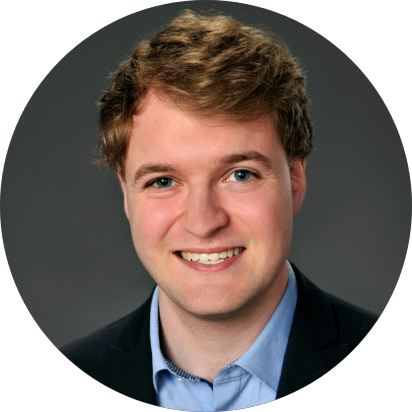
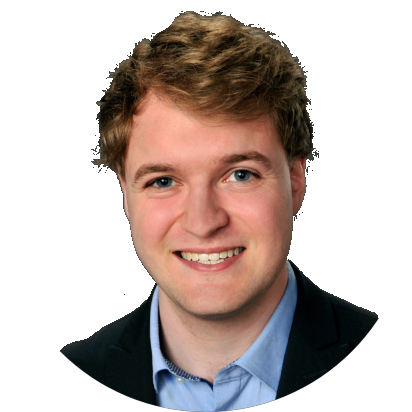
Improve layout

diff --git a/styles/main.css b/styles/main.css
@@ -1,1 +1,1 @@
-html,body{margin:0;padding:0}html{overflow-y:scroll}body{background:#FFFFFF;font-family:'Lato','Xiaolai SC',sans-serif;color:#2E2C24;font-size:13.2pt;padding:0 32px 0 32px;display:flex;justify-content:center}@media (max-width:960px){body{padding:0}}#wrapper{display:grid;grid-template-columns:max-content auto;grid-column-gap:80px}@media (max-width:960px){#wrapper{width:100%;grid-template-columns:auto 1fr;grid-column-gap:0}}#logo{display:flex;justify-content:center;padding-top:32px}@media (max-width:960px){#logo{background:#2E2C24;padding:16px}}#caption{background:#FFFFFF;padding:32px 0 0 32px;display:flex;align-items:center}#caption a{color:#2E2C24;text-decoration:none}#caption img{width:15%;margin-left:auto}@media (max-width:960px){#caption{background:#2E2C24;padding:16px}#caption a{color:#FFFFFF}#caption img{display:none}}#blackness{background:#2E2C24;height:100vh;width:50vw;position:fixed;left:0;top:0;z-index:-1}@media (max-width:960px){#blackness{display:none}}nav{background:#2E2C24;display:flex;flex-direction:column;padding-top:32px}nav a{margin-bottom:8px;color:#FFFFFF;text-decoration:none;font-size:1.5em}nav a.selected{background:#5E6897}nav a:hover{background:#80232E}@media (max-width:960px){nav{grid-column:1 / span 2;padding:16px}}main{width:700px;background:#FFFFFF;min-height:100vh;padding:32px 0 0 32px}main.chinese{font-size:26pt}main p:first-child,main h2:first-child{margin-block-start:0;font-weight:900}main .highlight{color:#80232E;font-weight:bold}main a{color:#5E6897}main a:hover{color:#80232E}main code{font-family:"DejaVu Sans Mono",monospace;font-size:12pt}@media (max-width:960px){main{padding:32px 32px 32px 16px;grid-column:1 / span 2;width:unset}}.work-item{border-top:solid 2px #80232E;background:#EEEEEE;padding:16px;margin-block-start:1em;margin-block-end:1em}.work-item h3{margin-block-start:0;margin-block-end:.75em}.work-item h4{margin-block-start:.75em;margin-block-end:0}.work-item-divider{display:flex;justify-content:center;color:#2E2C24;letter-spacing:.25rem;font-size:25px}h1,h2,h3,p{display:block;margin-inline-start:0;margin-inline-end:0}h1{font-size:2em;margin-block-start:.67em;margin-block-end:.67em;font-weight:900}h2{font-size:1.5em;margin-block-start:.83em;margin-block-end:.83em;font-weight:900}h3{font-size:1.17em;margin-block-start:1em;margin-block-end:1em;font-weight:900}h4{font-size:inherit;margin-block-start:1.33em;margin-block-end:1.33em;font-weight:900}p{display:block;margin-block-start:1em;margin-block-end:1em}abbr{text-decoration:none;border-bottom:solid 1px #80232E}abbr:hover{background:#80232E;color:#FFFFFF}/*# sourceMappingURL=main.css.map */
+html,body{margin:0;padding:0}html{overflow-y:scroll}body{background:#FFFFFF;font-family:'Lato',sans-serif;color:#2E2C24;font-size:13.2pt;padding:0 32px 0 32px;display:flex;justify-content:center}@media (max-width:960px){body{padding:0}}#wrapper{display:grid;grid-template-columns:max-content auto;grid-column-gap:80px}@media (max-width:960px){#wrapper{width:100%;grid-template-columns:auto 1fr;grid-column-gap:0}}#logo{display:flex;justify-content:center;align-items:center;padding-top:32px}@media (max-width:960px){#logo{background:#373D58;padding:16px}}#caption{background:#FFFFFF;padding:32px 0 0 32px;display:flex;flex-direction:column;justify-content:flex-end;align-items:flex-end}#caption hr{height:1px;border:0;border-top:solid 2px #2E2C24;width:100%;margin:0;padding:0}#caption a{color:#2E2C24;text-decoration:none}@media (max-width:960px){#caption{background:#373D58;padding:16px;flex-direction:row;justify-content:flex-start;align-items:center}#caption a{color:#FFFFFF}#caption hr{display:none}}#blackness{background:#373D58;height:100vh;width:50vw;position:fixed;left:0;top:0;z-index:-1}@media (max-width:960px){#blackness{display:none}}nav{background:#373D58;display:flex;flex-direction:column;padding-top:32px}nav a{margin-bottom:8px;color:#FFFFFF;text-decoration:none;font-size:1.5em}nav a.selected{background:#5E6897}nav a:hover{background:#80232E}@media (max-width:960px){nav{grid-column:1 / span 2;padding:16px}}main{width:700px;background:#FFFFFF;min-height:100vh;padding:32px 0 0 32px}main.chinese{font-family:'Lato','Xiaolai SC',sans-serif;font-size:1.2em}main p:first-child,main h2:first-child{margin-block-start:0;font-weight:900}main .highlight{color:#80232E;font-weight:bold}main a{color:#5E6897}main a:hover{color:#80232E}main code{font-family:"DejaVu Sans Mono",monospace;font-size:12pt}@media (max-width:960px){main{padding:32px 32px 32px 16px;grid-column:1 / span 2;width:unset}}.work-item{border-top:solid 2px #80232E;background:#EEEEEE;padding:16px;margin-block-start:1em;margin-block-end:1em}.work-item h3{margin-block-start:0;margin-block-end:.75em}.work-item h4{margin-block-start:.75em;margin-block-end:0}.work-item-divider{display:flex;justify-content:center;color:#2E2C24;letter-spacing:.25rem;font-size:25px}h1,h2,h3,p{display:block;margin-inline-start:0;margin-inline-end:0}h1{font-size:2em;margin-block-start:.67em;margin-block-end:.67em;font-weight:900}h2{font-size:1.5em;margin-block-start:.83em;margin-block-end:.83em;font-weight:900}h3{font-size:1.17em;margin-block-start:1em;margin-block-end:1em;font-weight:900}h4{font-size:inherit;margin-block-start:1.33em;margin-block-end:1.33em;font-weight:900}p{display:block;margin-block-start:1em;margin-block-end:1em}abbr{text-decoration:none;border-bottom:solid 1px #80232E}abbr:hover{background:#80232E;color:#FFFFFF}/*# sourceMappingURL=main.css.map */

diff --git a/styles/main.less b/styles/main.less
@@ -2,9 +2,10 @@
 @black: #2E2C24;
 @red: #80232E;
 @blue: #5E6897;
+@darkblue: #373D58; // Darkened version of #5E6897
 @grey: #EEEEEE;
 
-@nav-bg: @black;
+@nav-bg: @darkblue;
 @link: @blue;
 @link-hover: @red;
 
@@ -12,6 +13,9 @@
 @main-max-width: 700px;
 
 @bold-weight: 900;
+
+@main-font: 'Lato';
+@chinese-font: 'Xiaolai SC';
 
 // unused
 // @dark-grey: #888888;
@@ -36,7 +40,7 @@ html {
 
 body {
     background: @white;
-    font-family: 'Lato', 'Xiaolai SC', sans-serif;
+    font-family: @main-font, sans-serif;
     color: @black;
     font-size: 13.2pt;
 
@@ -65,6 +69,7 @@ body {
 #logo {
     display: flex;
     justify-content: center;
+    align-items: center;
     padding-top: 32px;
 
     @media (max-width: @mobile-width)  {
@@ -77,27 +82,36 @@ body {
     background: @white;
     padding: 32px 0 0 32px;
     display: flex;
-    align-items: center;
+    flex-direction: column;
+    justify-content: flex-end;
+    align-items: flex-end;
+
+    hr {
+        height: 1px;
+        border: 0;
+        border-top: solid 2px @black;
+        width: 100%;
+        margin: 0;
+        padding: 0;
+    }
 
     a {
         color: @black;
         text-decoration: none;
     }
 
-    img {
-        width: 15%;
-        margin-left: auto;
-    }
-
     @media (max-width: @mobile-width)  {
         background: @nav-bg;
         padding: 16px;
+        flex-direction: row;
+        justify-content: flex-start;
+        align-items: center;
 
         a {
             color: @white;
         }
 
-        img {
+        hr {
             display: none;
         }
     }
@@ -152,7 +166,8 @@ main {
     padding: 32px 0 0 32px;
 
     &.chinese {
-        font-size: 26pt;
+        font-family: @main-font, @chinese-font, sans-serif;
+        font-size: 1.2em;
     }
 
     p:first-child, h2:first-child {

diff --git a/phantom/templates/nav.html b/phantom/templates/nav.html
@@ -1,5 +1,7 @@
 <div id="logo">
-    <a href="/"><img src="img/logo-white.svg" alt="Logo" width="100"/></a>
+    <a href="/">
+        <img src="img/vincent-circle.png" alt="A picture of Vincent Rolfs" width="100"/>
+    </a>
 </div>
 
 <div id="caption">
@@ -8,7 +10,8 @@
             Vincent Rolfs
         </h1>
     </a>
-    <img src="img/vincent-circle.png" alt="A picture of Vincent Rolfs"/>
+
+    <hr/>
 </div>
 
 <div id="blackness"></div>
@@ -16,5 +19,6 @@
 <nav>
     <a class="<script data-phantom>phantom.args.selection === 'index' ? 'selected' : ''</script>" href="/">About me</a>
     <a class="<script data-phantom>phantom.args.selection === 'portfolio' ? 'selected' : ''</script>" href="/my-work">My work</a>
+    <a class="<script data-phantom>phantom.args.selection === 'chinese' ? 'selected' : ''</script>" href="/chinese">中文</a>
     <a class="<script data-phantom>phantom.args.selection === 'contact' ? 'selected' : ''</script>" href="/contact">Contact</a>
 </nav>

diff --git a/chinese.html b/chinese.html
@@ -29,9 +29,35 @@
   <script data-goatcounter="https://vincentrolfs.goatcounter.com/count" async src="//gc.zgo.at/count.js"></script>
 </head>
 <body>
+
 <div id="wrapper">
+    <div id="logo">
+    <a href="/">
+        <img src="img/vincent-circle.png" alt="A picture of Vincent Rolfs" width="100"/>
+    </a>
+</div>
+
+<div id="caption">
+    <a href="/">
+        <h1>
+            Vincent Rolfs
+        </h1>
+    </a>
+
+    <hr/>
+</div>
+
+<div id="blackness"></div>
+
+<nav>
+    <a class="" href="/">About me</a>
+    <a class="" href="/my-work">My work</a>
+    <a class="selected" href="/chinese">中文</a>
+    <a class="" href="/contact">Contact</a>
+</nav>
+
     <main class="chinese">
-        <h1>写中文</h1>
+        <h2>写中文</h2>
 
         <p>
             这是我写中文的地方。<abbr title="tōngguò: by">通过</abbr>经常写中文，我可以提高得更快。

diff --git a/contact.html b/contact.html
@@ -29,9 +29,12 @@
   <script data-goatcounter="https://vincentrolfs.goatcounter.com/count" async src="//gc.zgo.at/count.js"></script>
 </head>
 <body>
+
 <div id="wrapper">
     <div id="logo">
-    <a href="/"><img src="img/logo-white.svg" alt="Logo" width="100"/></a>
+    <a href="/">
+        <img src="img/vincent-circle.png" alt="A picture of Vincent Rolfs" width="100"/>
+    </a>
 </div>
 
 <div id="caption">
@@ -40,7 +43,8 @@
             Vincent Rolfs
         </h1>
     </a>
-    <img src="img/vincent-circle.png" alt="A picture of Vincent Rolfs"/>
+
+    <hr/>
 </div>
 
 <div id="blackness"></div>
@@ -48,6 +52,7 @@
 <nav>
     <a class="" href="/">About me</a>
     <a class="" href="/my-work">My work</a>
+    <a class="" href="/chinese">中文</a>
     <a class="selected" href="/contact">Contact</a>
 </nav>
 

diff --git a/index.html b/index.html
@@ -28,9 +28,12 @@
   <script data-goatcounter="https://vincentrolfs.goatcounter.com/count" async src="//gc.zgo.at/count.js"></script>
 </head>
 <body>
+
 <div id="wrapper">
     <div id="logo">
-    <a href="/"><img src="img/logo-white.svg" alt="Logo" width="100"/></a>
+    <a href="/">
+        <img src="img/vincent-circle.png" alt="A picture of Vincent Rolfs" width="100"/>
+    </a>
 </div>
 
 <div id="caption">
@@ -39,7 +42,8 @@
             Vincent Rolfs
         </h1>
     </a>
-    <img src="img/vincent-circle.png" alt="A picture of Vincent Rolfs"/>
+
+    <hr/>
 </div>
 
 <div id="blackness"></div>
@@ -47,6 +51,7 @@
 <nav>
     <a class="selected" href="/">About me</a>
     <a class="" href="/my-work">My work</a>
+    <a class="" href="/chinese">中文</a>
     <a class="" href="/contact">Contact</a>
 </nav>
 

diff --git a/my-work.html b/my-work.html
@@ -29,9 +29,12 @@
   <script data-goatcounter="https://vincentrolfs.goatcounter.com/count" async src="//gc.zgo.at/count.js"></script>
 </head>
 <body>
+
 <div id="wrapper">
     <div id="logo">
-    <a href="/"><img src="img/logo-white.svg" alt="Logo" width="100"/></a>
+    <a href="/">
+        <img src="img/vincent-circle.png" alt="A picture of Vincent Rolfs" width="100"/>
+    </a>
 </div>
 
 <div id="caption">
@@ -40,7 +43,8 @@
             Vincent Rolfs
         </h1>
     </a>
-    <img src="img/vincent-circle.png" alt="A picture of Vincent Rolfs"/>
+
+    <hr/>
 </div>
 
 <div id="blackness"></div>
@@ -48,6 +52,7 @@
 <nav>
     <a class="" href="/">About me</a>
     <a class="selected" href="/my-work">My work</a>
+    <a class="" href="/chinese">中文</a>
     <a class="" href="/contact">Contact</a>
 </nav>
 
